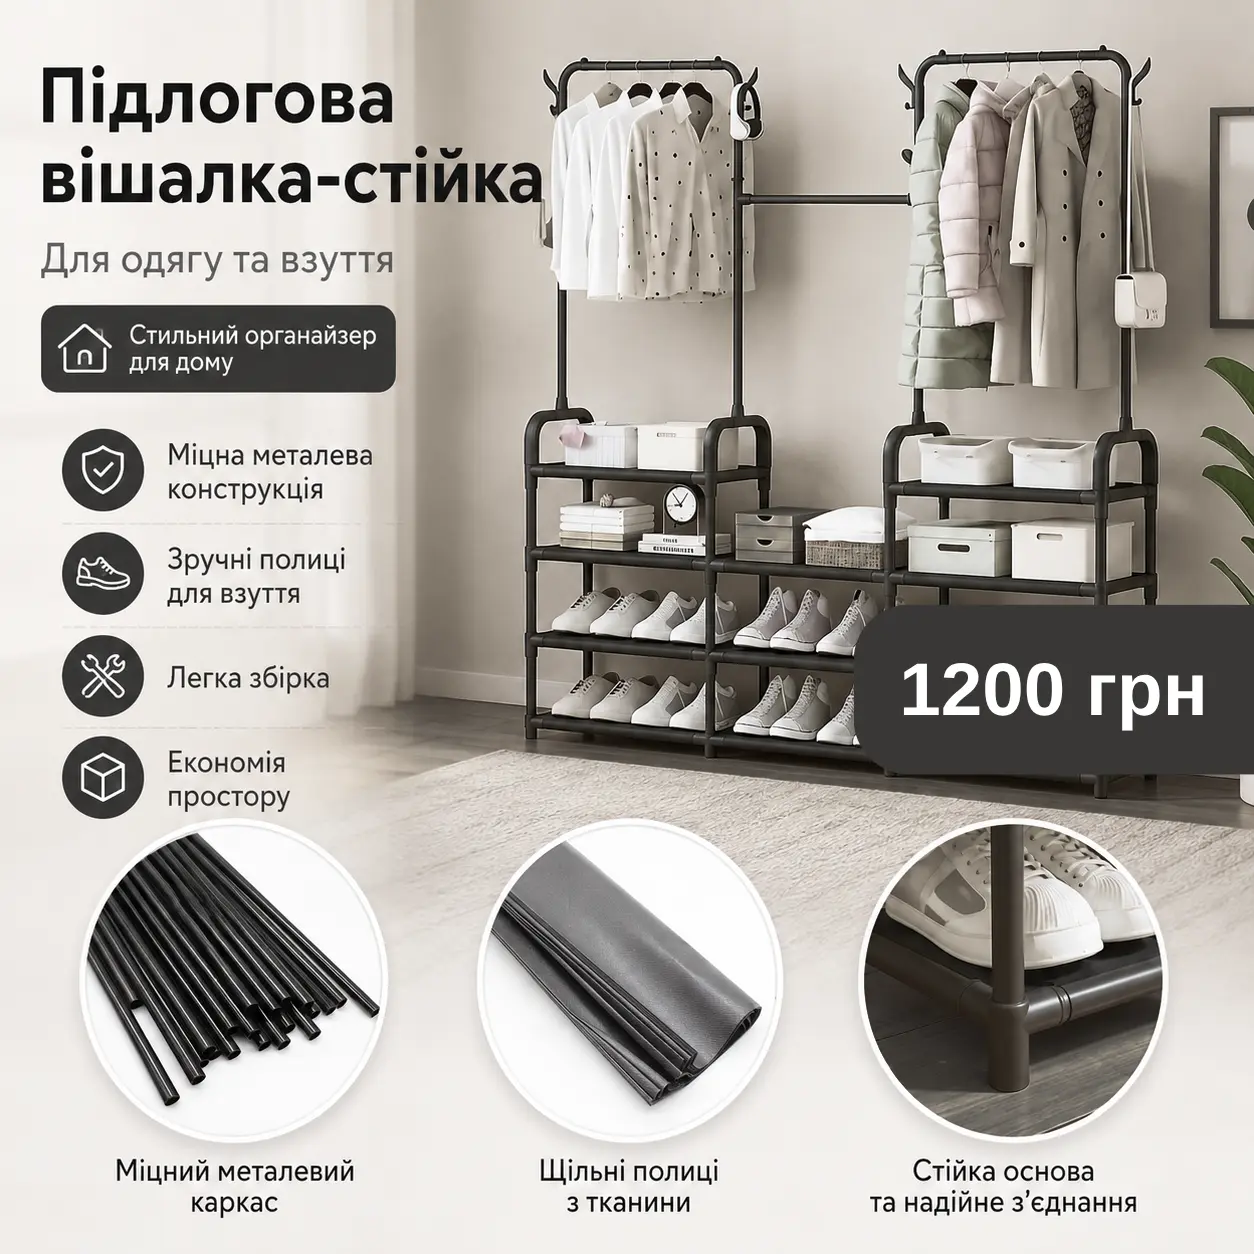
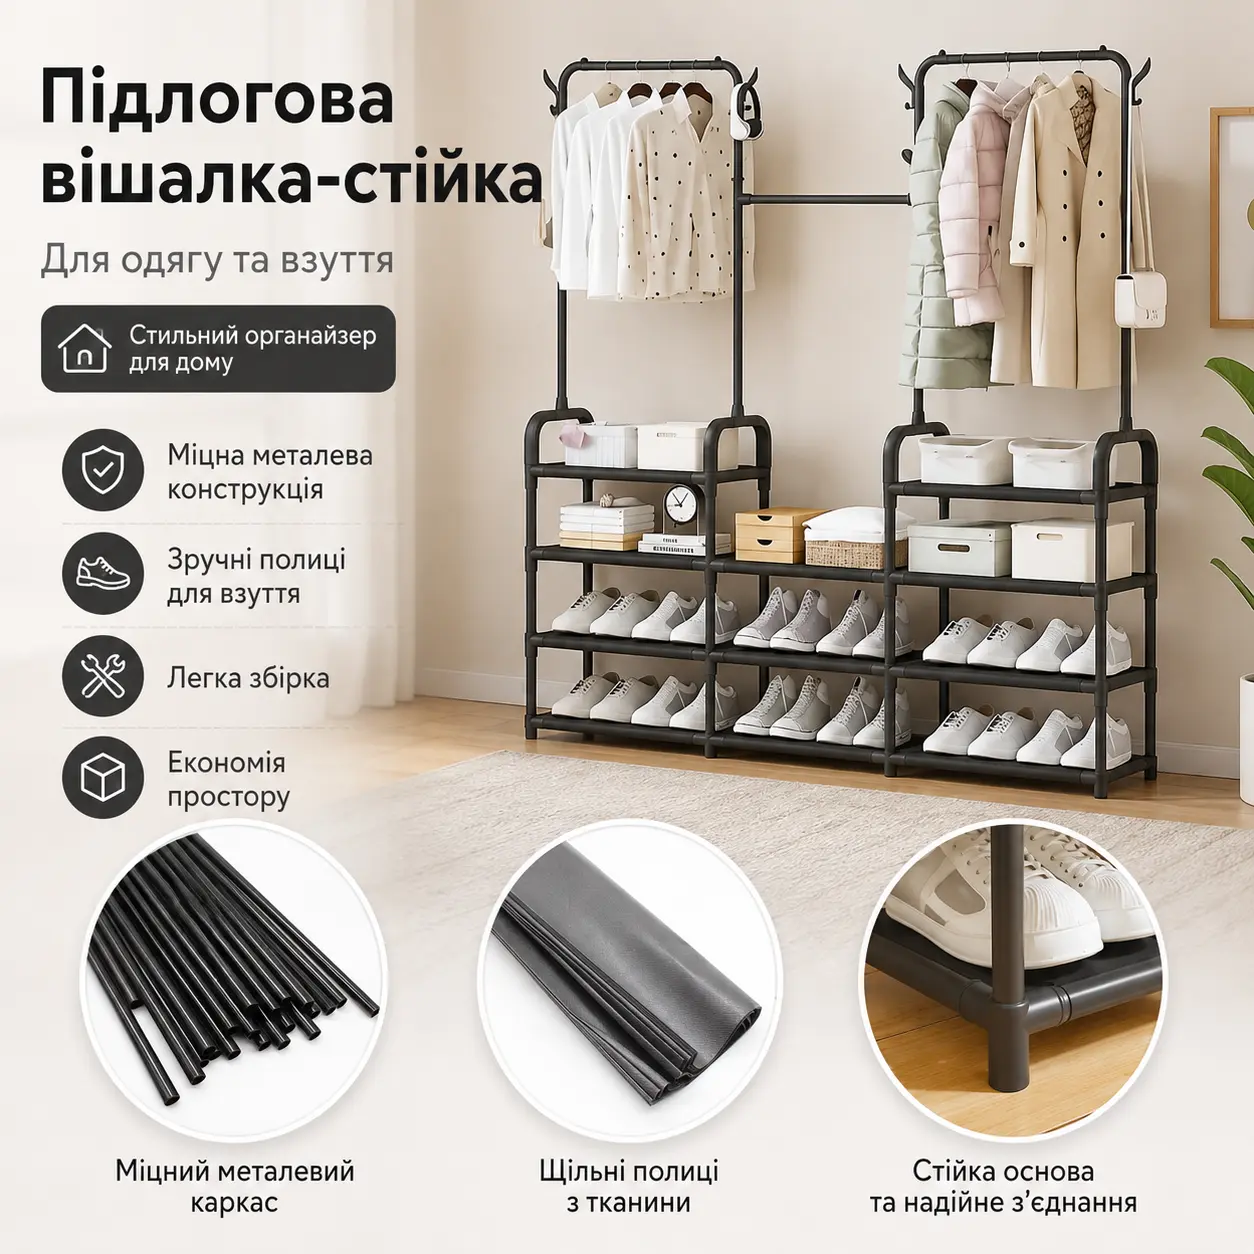
add boxPrice and edit images

diff --git a/src/data/products.js b/src/data/products.js
@@ -10,8 +10,8 @@ export const allProducts = [
     template: 1,
     slug: "konstruktor-poezd-magnetic-82",
     name: "Магнітний конструктор-поїзд Magnetic",
-    price_old: 1200,
-    price_new: 900,
+    price: "1200 грн",
+    price_new: "900 грн",
     discount: "25%",
     icon: <SlPresent />,
     call: "ЗДИВУЙ ДИТИНУ!",
@@ -25,8 +25,8 @@ export const allProducts = [
         text: "Розвиває уяву та творчість",
       },
     ],
-    image_1: "/konstruktor/konstruktor_1.webp",
-    image_2: "/konstruktor/konstruktor_2.webp",
+    image_1: "/konstruktor/konstruktor82_1.webp",
+    image_2: "/konstruktor/konstruktor82_2.webp",
     primary: "#2a5b9c",
     secondary: "#ffffff",
   },
@@ -35,8 +35,8 @@ export const allProducts = [
     template: 2,
     slug: "pristavnoj-stolik-na-kolesikax-kompyuternyj",
     name: "Приставний столик на колесиках G-50",
-    price_old: 1000,
-    price_new: 750,
+    price: "1000 грн",
+    price_new: "750 грн",
     discount: "25%",
     icon: <FaThumbsUp />,
     call: "ПРОСТО НЕОБХІДНА РІЧ!",
@@ -76,8 +76,8 @@ export const allProducts = [
     template: 1,
     slug: "dvojnaya-veshalka-s-kryuchkami",
     name: "Підлогова вішалка-стійка для одягу",
-    price_old: 1200,
-    price_new: 720,
+    price: "1200 грн",
+    price_new: "720 грн",
     discount: "40%",
     icon: <BsHouseHeart />,
     call: "ПОРЯДОК І СТИЛЬ!",

diff --git a/src/components/Samples/FirstTemplateCard.jsx b/src/components/Samples/FirstTemplateCard.jsx
@@ -29,7 +29,14 @@ export default function FirstTemplateCard({ item }) {
           loading="eager"
           className={styles.imgBasic}
         />
+        <div
+          className={styles.boxPrice}
+          style={{ backgroundColor: `${item.primary}` }}
+        >
+          <h3>{item.price}</h3>
+        </div>
       </div>
+
       <div className={styles.wrapNotes}>
         <Image
           alt={item.name}
@@ -66,7 +73,7 @@ export default function FirstTemplateCard({ item }) {
         <h4 className={styles.noteTitle} style={{ color: `${item.secondary}` }}>
           Встигни придбати за ціною
         </h4>
-        <p className={styles.value}>{item.price_new}грн</p>
+        <p className={styles.value}>{item.price_new}</p>
       </div>
       <div className={styles.wrapCall} style={{ color: `${item.secondary}` }}>
         <span className={styles.icon}>{item.icon}</span>

diff --git a/src/components/Samples/SecondTemplateCard.jsx b/src/components/Samples/SecondTemplateCard.jsx
@@ -34,6 +34,12 @@ export default function FirstTemplateCard({ item }) {
           loading="eager"
           className={styles.imgBasic}
         />
+        <div
+          className={styles.boxPrice}
+          style={{ backgroundColor: `${item.primary}` }}
+        >
+          <h3>{item.price}</h3>
+        </div>
       </div>
       <div className={styles.wrapNotes}>
         <Image
@@ -116,7 +122,7 @@ export default function FirstTemplateCard({ item }) {
         <h4 className={styles.noteTitle} style={{ color: `${item.secondary}` }}>
           Встигни придбати за ціною
         </h4>
-        <p className={styles.value}>{item.price_new}грн</p>
+        <p className={styles.value}>{item.price_new}</p>
       </div>
       <div className={styles.wrapCall} style={{ color: `${item.secondary}` }}>
         <span className={styles.icon}>{item.icon}</span>

diff --git a/src/components/Samples/samples.module.css b/src/components/Samples/samples.module.css
@@ -10,13 +10,32 @@
   gap: 4px;
   padding: 60px 2px;
 }
-
 .wrapImg {
+  position: relative;
   display: flex;
   align-items: center;
   justify-content: center;
   width: 100%;
   height: auto;
+}
+.boxPrice {
+  right: 0;
+  bottom: 48px;
+  position: absolute;
+  display: flex;
+  justify-content: center;
+  align-items: center;
+  border-top-left-radius: 25px;
+  border-bottom-left-radius: 25px;
+  padding: 12px 16px 12px 24px;
+}
+.boxPrice > h3 {
+  font-family: var(--font-montserrat);
+  font-size: 32px;
+  font-weight: 800;
+  letter-spacing: 1.25;
+  font-style: italic;
+  color: #ffffff;
 }
 .imgBasic {
   display: flex;

diff --git a/src/constants/sample_1.js b/src/constants/sample_1.js
@@ -3,7 +3,7 @@ export const schemeFirst = {
   template: 1,
   slug: "konstruktor-poezd-magnetic-82",
   name: "Магнітний конструктор-поїзд Magnetic",
-  price_old: 1200,
+  price: 1200,
   price_new: 900,
   discount: "25%",
   icon: "",

diff --git a/src/constants/sample_2.js b/src/constants/sample_2.js
@@ -3,7 +3,7 @@ export const schemeFirst = {
   template: 2,
   slug: "konstruktor-poezd-magnetic-82",
   name: "Магнітний конструктор-поїзд Magnetic",
-  price_old: 1200,
+  price: 1200,
   price_new: 900,
   discount: "25%",
   icon: "",
